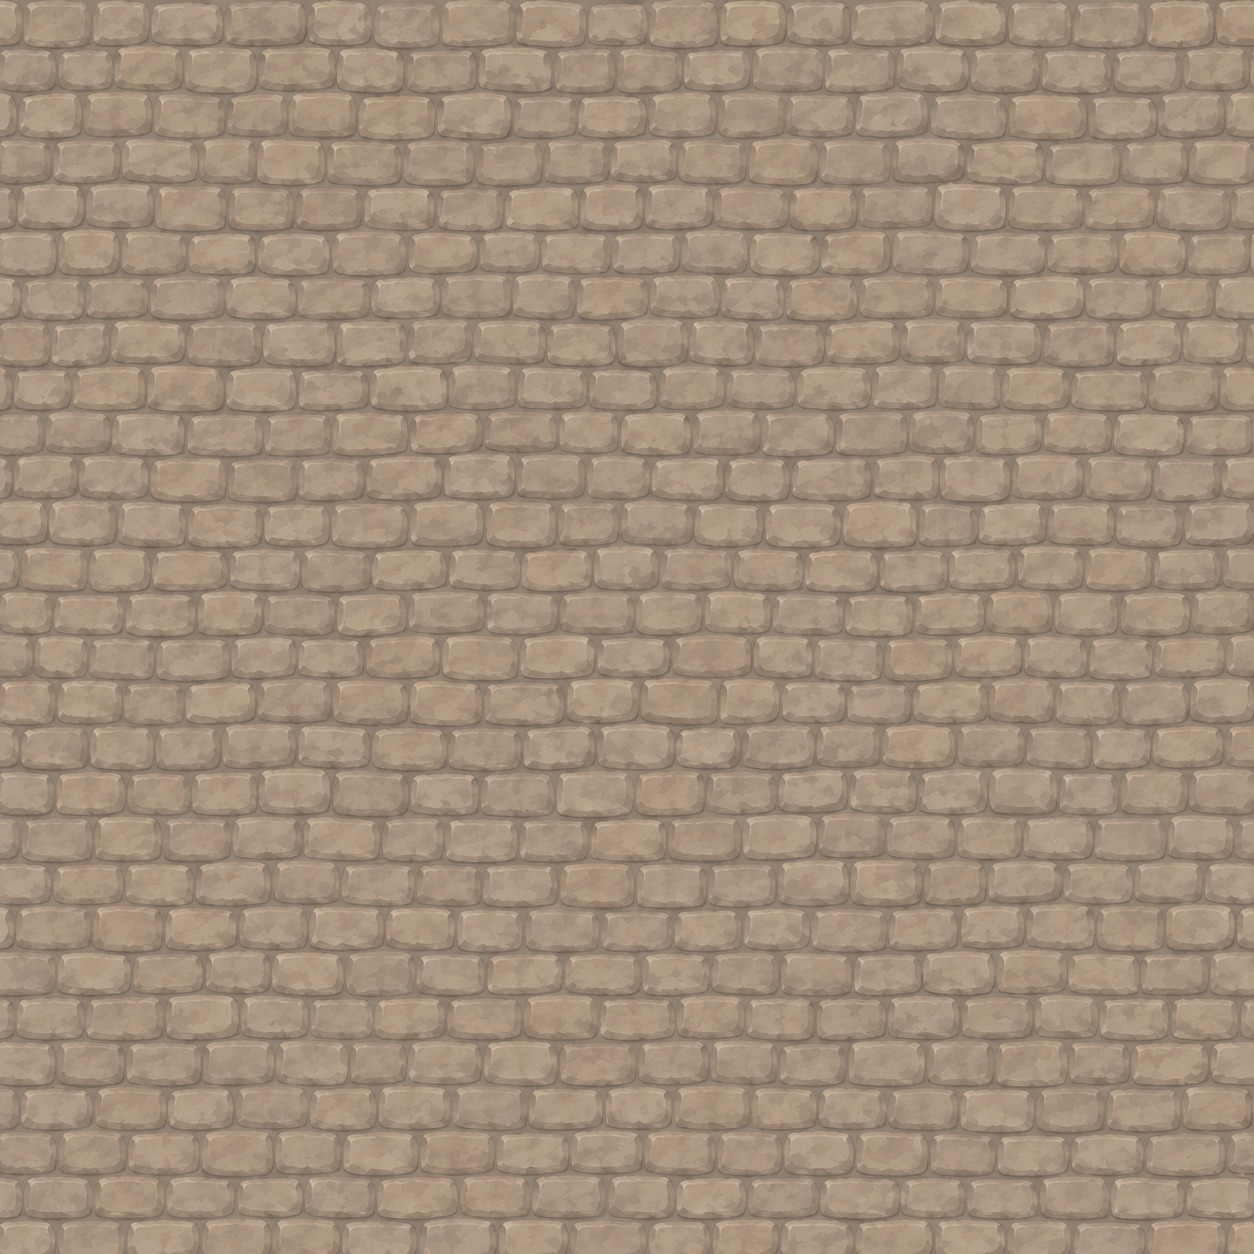
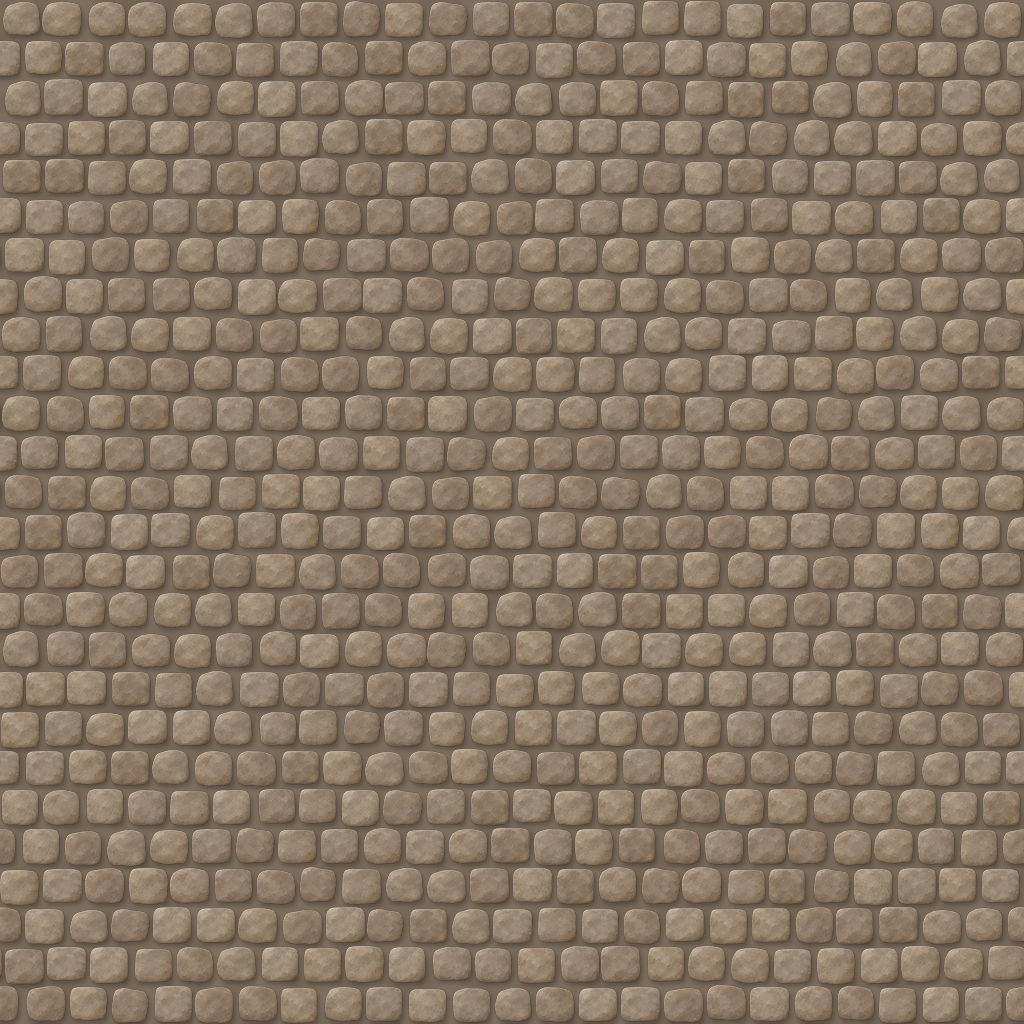
camp: seamless cobble texture built from 16 painted stones (cobble.py)
Claude-Session: https://claude.ai/code/session_01QC6M2GMZEWaZaT5XHnmo8S

diff --git a/dev/art/chatgpt_job/camp/cobble.py b/dev/art/chatgpt_job/camp/cobble.py
@@ -1,0 +1,41 @@
+import sys,numpy as np,random
+from PIL import Image,ImageFilter
+from scipy import ndimage
+src,out=sys.argv[1],sys.argv[2]
+a=np.asarray(Image.open(src).convert('RGB')).astype(int)
+m=a.max(2)>40;m=ndimage.binary_opening(m,iterations=2);lab,n=ndimage.label(m)
+st=[]
+for i,sl in enumerate(ndimage.find_objects(lab)):
+    ys,xs=sl
+    if (ys.stop-ys.start)<100:continue
+    rgb=a[ys,xs];al=(lab[ys,xs]==i+1)
+    al=ndimage.binary_erosion(al,iterations=3)
+    alf=np.asarray(Image.fromarray((al*255).astype('uint8')).filter(ImageFilter.GaussianBlur(1.2)))
+    im=np.dstack([rgb,alf]).astype('uint8');st.append(Image.fromarray(im))
+print('stones',len(st))
+random.seed(7);N=1024
+bg=np.zeros((N,N,3),float)+[118,104,90]
+noise=np.asarray(Image.fromarray((np.random.RandomState(3).rand(64,64)*255).astype('uint8')).resize((N,N),Image.BICUBIC)).astype(float)/255
+bg+= (noise[...,None]-.5)*14
+canvas=Image.fromarray(bg.clip(0,255).astype('uint8')).convert('RGBA')
+cols,rows=24,26;cw,ch=N/cols,N/rows
+shadow=Image.new('RGBA',(N,N),(0,0,0,0));top=Image.new('RGBA',(N,N),(0,0,0,0))
+for r in range(rows):
+    off=(cw/2 if r%2 else 0)+random.uniform(-3,3)
+    for c in range(cols):
+        s=random.choice(st);w=int(cw*random.uniform(.9,.98));h=int(ch*random.uniform(.9,.98))
+        p=s.resize((w,h),Image.LANCZOS)
+        cx=c*cw+off+cw/2+random.uniform(-1.5,1.5);cy=r*ch+ch/2+random.uniform(-1.5,1.5)
+        x0,y0=int(round(cx-w/2)),int(round(cy-h/2))
+        sh=Image.new('RGBA',p.size,(20,14,8,0));sh.putalpha(p.getchannel('A').point(lambda v:int(v*.55)))
+        for dx in (-N,0,N):
+            for dy in (-N,0,N):
+                shadow.alpha_composite(sh,(0,0)) if False else None
+                X,Y=x0+dx,y0+dy
+                if X>-w and X<N and Y>-h and Y<N:
+                    shadow.paste(sh,(X+2,Y+3),sh);top.paste(p,(X,Y),p)
+shadow=shadow.filter(ImageFilter.GaussianBlur(2))
+canvas.alpha_composite(shadow);canvas.alpha_composite(top)
+# soften contrast a little
+o=np.asarray(canvas.convert('RGB')).astype(float);mu=o.mean((0,1));o=mu+(o-mu)*.85
+Image.fromarray(o.clip(0,255).astype('uint8')).save(out)
